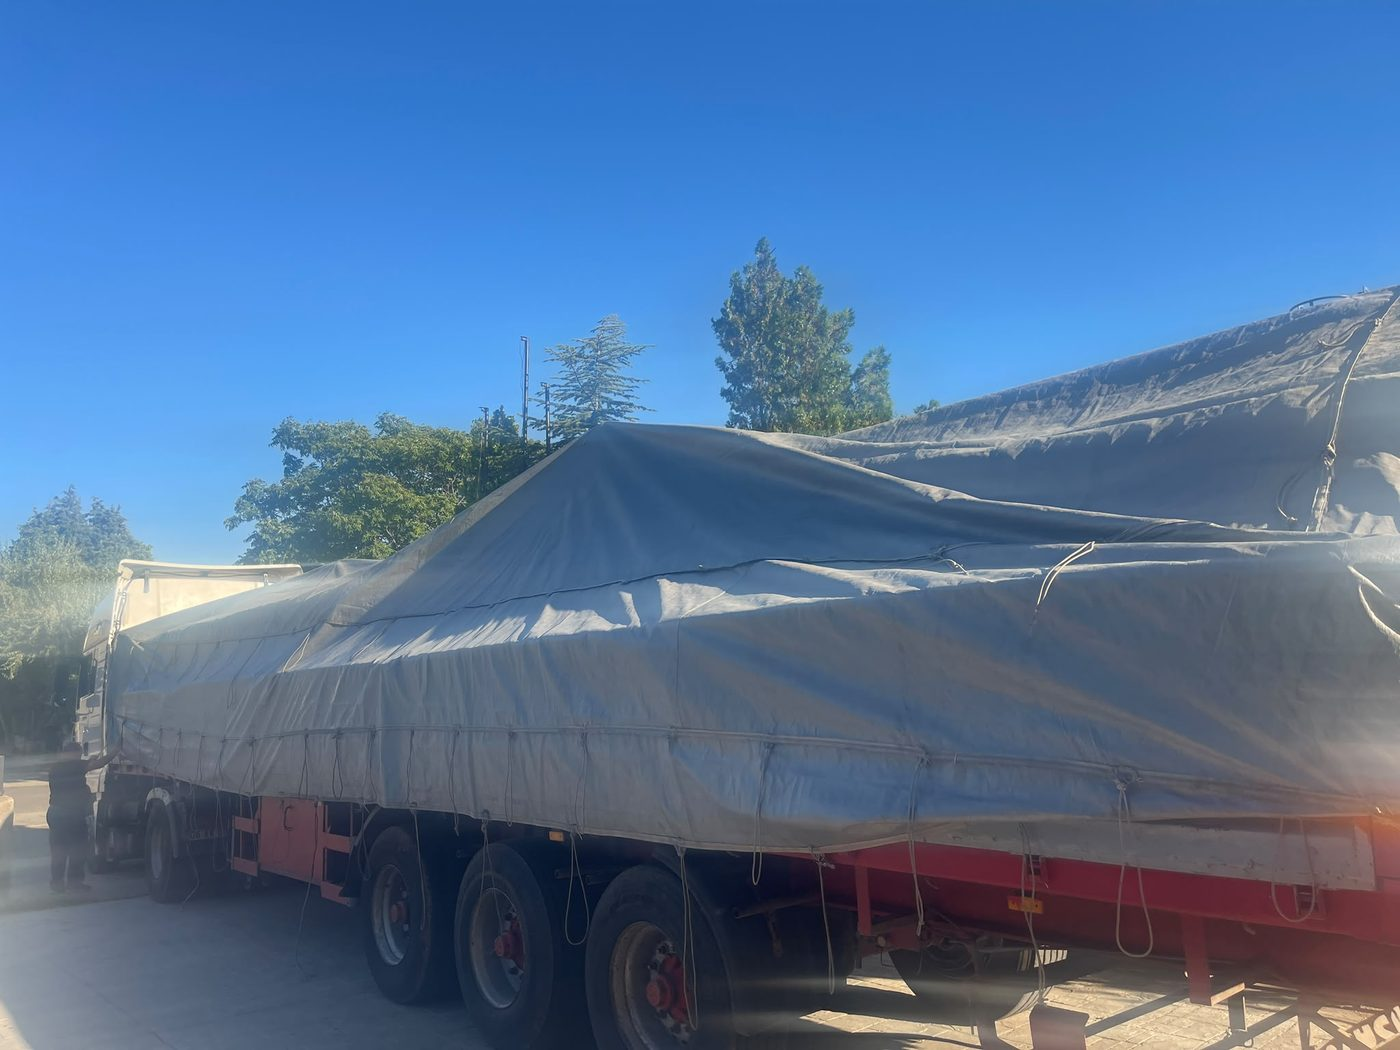
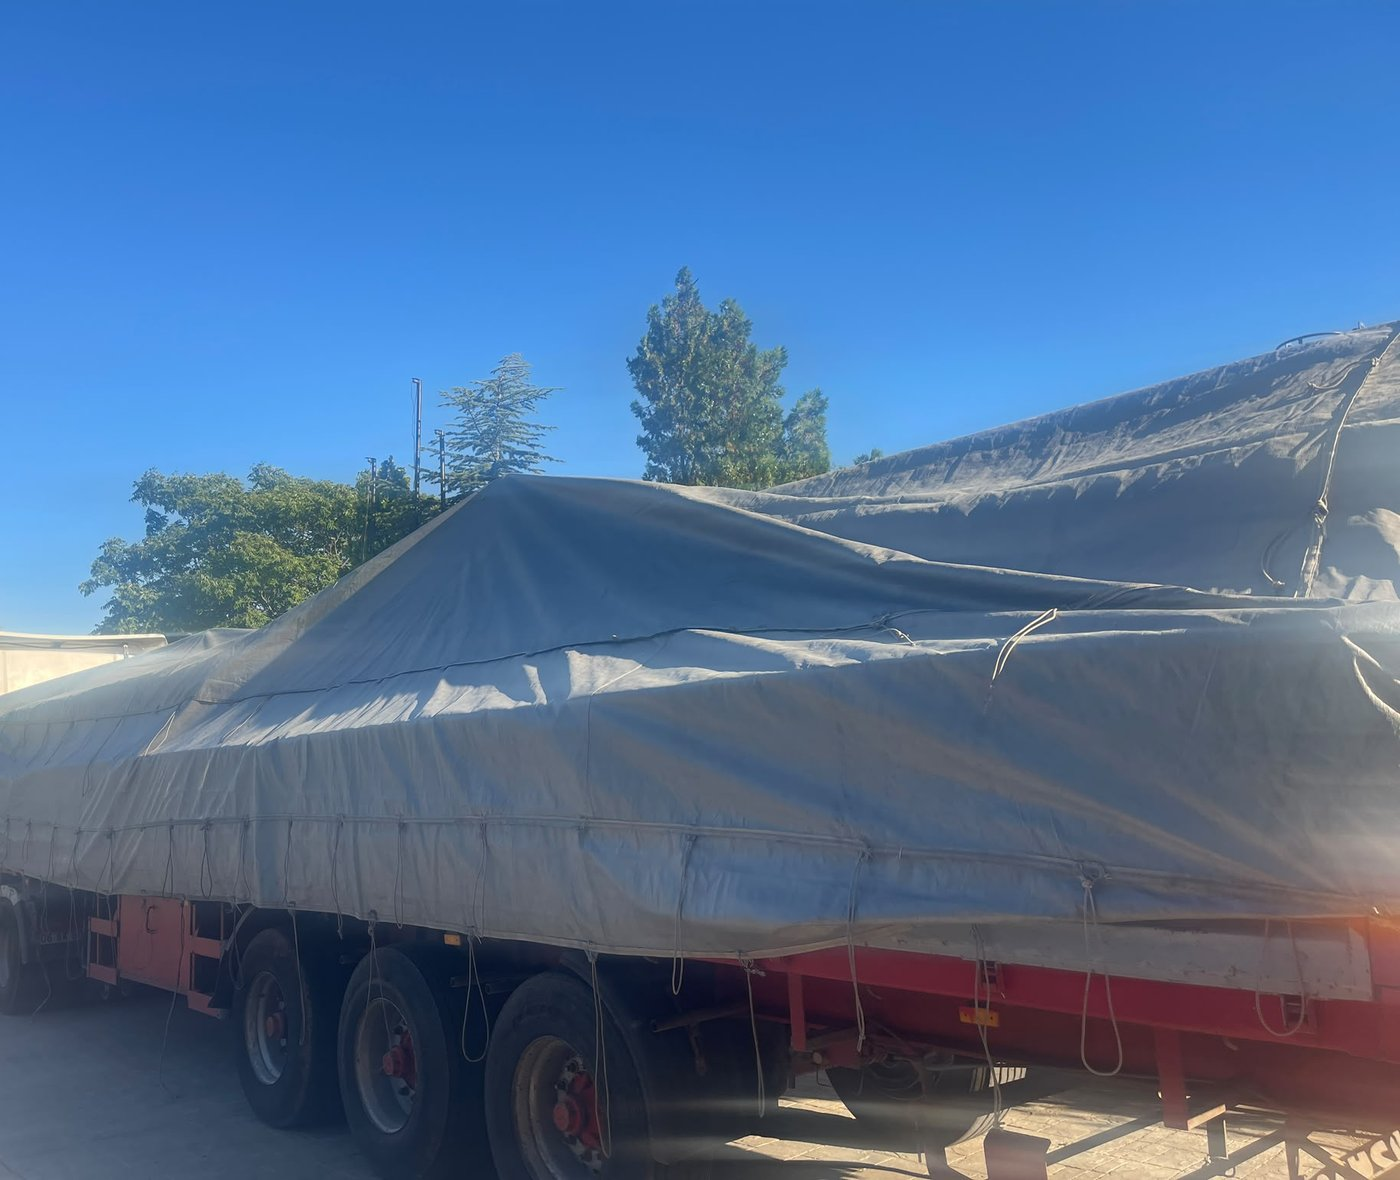
YETSAN 0726051: insanli 5 foto degistirildi, EKSIK soru dosyasi eklendi.

diff --git a/projects/0726051-YETSAN-KNV-90/EKSIK-SORULAR.md b/projects/0726051-YETSAN-KNV-90/EKSIK-SORULAR.md
@@ -1,0 +1,272 @@
+# 0726051-YETSAN KNV 90 7500 2B — Eksik veri soruları
+
+Kılavuzdaki 128 `[EKSİK]` işareti aşağıdaki 21 konuya iner. Her sorunun altındaki **Cevap:** satırını doldur; ben DATA dosyasını ve TR/DE bölümlerini buna göre güncellerim.
+
+Doldurma kuralları:
+- Değeri biliyorsan birimiyle yaz (ör. `7 500 mm`, `IP54`, `55 °C`).
+- O madde bu makinede yoksa `YOK` yaz (kılavuzda "bulunmaz" olarak yazılır).
+- Hâlâ bilinmiyorsa `BİLİNMİYOR` yaz ya da boş bırak (`[EKSİK]` kalır).
+- Çizim/PDF'ten gelecekse dosya adını yazman yeterli; değeri çizimden okurum.
+
+Sağdaki köşeli parantezler DATA anahtarını ve kılavuz bölümünü gösterir.
+
+---
+
+## 1. Kimlik ve etiket
+
+**S1.** Makinenin imalat / sevk tarihi nedir? `[PROJE] İmalat / sevk tarihi` — Bölüm 1.1, 1.3
+Cevap:
+
+**S2.** Tip (CE) etiketi makinenin tam olarak neresinde? (ör. "pano kapağı sağ üst", "konveyör giriş tarafı gövde") — Bölüm 1.3
+Cevap:
+
+---
+
+## 2. Güvenlik sınıflandırması
+
+**S3.** Emniyet fonksiyonlarının EN ISO 13849-1 kategorisi ve PL değeri nedir? (ör. `Cat. 3 / PL d`) `[GUVENLIK_CIT] Makine stop kategorisi` — Bölüm 2.1, 5.4
+Cevap:
+
+**S4.** Acil stop durdurma kategorisi (EN 60204-1) nedir? (`Stop Cat. 0` veya `Cat. 1`) — Bölüm 2.5
+Cevap:
+
+**S5.** Acil stop zinciri ile kapak switch zinciri aynı G9SB rölesine mi bağlı, yoksa iki ayrı röle mi var? `[GUVENLIK_CIT] Emniyet rölesi (acil stop zinciri)` — Bölüm 2.5, 5.4
+Cevap:
+
+---
+
+## 3. LOTO — enerji izolasyon noktaları
+
+**S6.** Basınçlı hava için kilitlenebilir kesme vanası nerede? (makine üzerinde AIR INLET regülatörünün yanında mı, tesisat hattında mı?) `[LOTO_ENERJI_KONTROLU] İzolasyon noktası — basınçlı hava` — Bölüm 2.4
+Cevap:
+
+**S7.** Makine üzerinde ayrı bir su kesme vanası var mı? Varsa nerede? `[LOTO_ENERJI_KONTROLU] Su / hidrolik izolasyon` — Bölüm 2.4
+Cevap:
+
+---
+
+## 4. Egzoz fanı
+
+**S8.** Egzoz fanının panelde anahtarı yok; hangi fonksiyonla birlikte devreye giriyor? (ör. "TANK 1 PUMP açılınca", "ana şalter ON olunca sürekli", "DRYING ile") — Bölüm 3.1, 3.4, 7.2
+Cevap:
+
+---
+
+## 5. İşlenebilir parça limitleri
+
+**S9.** Konveyöre konabilecek parçanın maksimum boyutu (L × W × H, mm) ve maksimum ağırlığı (kg) nedir? Ayrıca tel bant metre başına taşıma kapasitesi varsa yaz. `[AMACLANAN_KULLANIM] İşlenebilir ürün tipleri`, `[KAPASITE_PROSES] Ürün boyutu/ağırlığı max` — Bölüm 3.2, 8.1
+Cevap:
+
+**S10.** Kurutma hücresi geçiş açıklığı (W × H, mm) nedir? (parça yükseklik sınırı için) — Bölüm 3.2
+Cevap:
+
+---
+
+## 6. Boyut ve ağırlık
+
+**S11.** Makine dış ölçüleri: uzunluk L / genişlik W / yükseklik H (baca hariç ve baca dahil), mm. `[BOYUT_AGIRLIK]` — Bölüm 3.3.1
+Cevap:
+
+**S12.** Boş (kuru) ağırlık, kg. `[BOYUT_AGIRLIK] Boş ağırlık — kuru` — Bölüm 3.3.1
+Cevap:
+
+**S13.** Çalışma (tanklar dolu) ağırlığı, kg. Tank hacimleri biliniyorsa (TANK 1 / TANK 2 litre) onu da yaz. `[BOYUT_AGIRLIK] Çalışma ağırlığı — dolu` — Bölüm 3.3.1
+Cevap:
+
+**S14.** Yağ ayırıcı ünitesinin ölçüleri ve ağırlığı? — Bölüm 3.3.1, 4.1
+Cevap:
+
+---
+
+## 7. Döngü süresi
+
+**S15.** Konveyör nominal hızda (ör. 50 Hz) bir parça girişten çıkışa kaç saniyede/dakikada geçer? Veya konveyör hızı m/dk olarak nedir? (hat uzunluğu ile süreyi ben hesaplarım) `[KAPASITE_PROSES] Döngü süresi nominal` — Bölüm 3.3.2, 7.4, 8.1
+Cevap:
+
+---
+
+## 8. Elektrik
+
+**S16.** Güç faktörü (cos φ)? `[ELEKTRIK] Güç faktörü` — Bölüm 3.3.3
+Cevap:
+
+**S17.** Kısa devre akımı / ICC gereksinimi (kA)? (TMŞ CVS250F kesme kapasitesi 36 kA ise bunu doğrula) `[ELEKTRIK] Kısa devre akımı` — Bölüm 3.3.3
+Cevap:
+
+**S18.** Elektrik panosunun koruma sınıfı (IP)? `[KONTROLLER] Pano koruma sınıfı` — Bölüm 3.3.6, 3.4
+Cevap:
+
+**S19.** Motorların devir (rpm) ve marka/model bilgisi: konveyör redüktör motoru, yıkama pompası, durulama pompası, sıyırıcı, egzoz fanı, kurutma fanı 1–2, blower 1–4. `[MOTOR_SURUCU_LISTESI]` — Bölüm 3.3.4
+Cevap:
+
+---
+
+## 9. Medya bağlantıları
+
+**S20.** Basınçlı hava girişi bağlantı çapı ve konumu? (ör. `G 1/2", makine sağ yan, pano altı`) `[SIKIŞTIRILMIŞ_HAVA_SU] Basınçlı hava ve su bağlantı verileri` — Bölüm 3.3.5, 5.3, 6.5
+Cevap:
+
+**S21.** Su girişi bağlantı çapı ve konumu? — Bölüm 3.3.5, 5.3
+Cevap:
+
+**S22.** Tank tahliye (TAHLİYE) vanası çapı ve drain / atık su hattı çapı? `[SIKIŞTIRILMIŞ_HAVA_SU] Drain / atık su hattı çap` — Bölüm 3.3.5, 5.3, 10.1
+Cevap:
+
+**S23.** Egzoz bacası çıkış çapı (mm) ve önerilen kanal malzemesi? — Bölüm 3.3.5, 5.3
+Cevap:
+
+---
+
+## 10. Termostat set değerleri
+
+**S24.** Fabrika/önerilen sıcaklık set değerleri (°C): TANK 1 HEATER / TANK 2 HEATER / DRYING 1 HEATER / DRYING 2 HEATER. Ayrıca termostatın ayarlanabilir aralığı (ör. `0–99 °C`). `[KONTROL_FONKSIYONLARI] Reçete / program kayıt sayısı` — Bölüm 3.4, 6.3
+Cevap:
+
+**S25.** Kurutma hücresi hava sıcaklığı için üst sınır var mı? (su için +70 °C sınırı tanımlı) — Bölüm 6.3
+Cevap:
+
+---
+
+## 11. Layout ve kurulum alanı
+
+**S26.** Genel yerleşim (layout) çiziminin dosya adı ve revizyonu? `[LAYOUT] Genel yerleşim planı dosya adı`, `[DOKUMANLAR] Layout çizimi` — Bölüm 3.5, 13.1, 13.2
+Cevap:
+
+**S27.** Minimum etraf boşlukları (mm): ön (pano/operatör tarafı) / arka / giriş yanı / çıkış yanı. `[LAYOUT] Minimum etraf boşluğu` — Bölüm 3.5.2, 5.2
+Cevap:
+
+**S28.** Minimum tavan yüksekliği (baca bağlantısı dahil), mm. `[LAYOUT] Minimum tavan yüksekliği` — Bölüm 3.5.2
+Cevap:
+
+**S29.** Montaj alanı minimum boyutu (m × m)? `[MONTAJ_GENEL] Montaj alanı min boyut` — Bölüm 3.5.2, 5.1
+Cevap:
+
+**S30.** Zemin düzgünlük toleransı (mm/m) ve zemin taşıma kapasitesi gereksinimi (kg/m² veya "dolu ağırlık × 1,5")? `[MONTAJ_GENEL] Zemin düzgünlük toleransı / Zemin mukavemet` — Bölüm 3.5.2, 5.2
+Cevap:
+
+---
+
+## 12. Kaldırma ve sevkiyat
+
+**S31.** Montajlı taşıma ağırlığı (kg) ve demonte edilen en ağır parça (hangi parça, kg)? `[TASIMA]` — Bölüm 3.5.4, 4.1, 12.1
+Cevap:
+
+**S32.** Forklift çatal girişi var mı? Varsa nerede, çatal aralığı kaç mm? `[TASIMA] Forklift çatal girişi` — Bölüm 3.5.4, 4.1
+Cevap:
+
+**S33.** Kaldırma noktaları / travers çizimi var mı? Dosya adı? `[TASIMA] Kaldırma aparatı`, `[CIZIMLER] Kaldırma noktaları çizimi` — Bölüm 4.1, 13.2
+Cevap:
+
+**S34.** Vinç ile kaldırma öngörülüyor mu? Kaldırma mapaları var mı? `[LAYOUT] Vinç / forklift erişim noktaları` — Bölüm 3.5.4
+Cevap:
+
+**S35.** Ambalaj tipi (streç + branda / ahşap kasa / konteyner)? Taşıma sırasında sabitleme yöntemi (kayış, takoz)? `[TASIMA] Ambalaj tipi / Sabitleme` — Bölüm 4.1
+Cevap:
+
+**S36.** Nem/korozyon koruması (VCI, silikajel, yok)? Maksimum taşıma yüksekliği (kara/deniz, m)? `[TASIMA] Nem koruma / Taşıma yüksekliği` — Bölüm 4.1
+Cevap:
+
+---
+
+## 13. Depolama
+
+**S37.** Depolama pozisyonu (yatay, ayaklar üzerinde?), maksimum depolama süresi (ay) ve ortam şartları (nem, kapalı alan)? `[DEPOLAMA]` — Bölüm 4.2
+Cevap:
+
+---
+
+## 14. Montaj ve devreye alma
+
+**S38.** Tahmini montaj süresi (saat/gün) ve ekip sayısı? `[MONTAJ_GENEL]` — Bölüm 5.1
+Cevap:
+
+**S39.** Montaj adımlarında tork veya tolerans değeri var mı? (ör. ayak kontra somunu torku, baca flanş cıvataları) `[MONTAJ_ADIMLARI]` — Bölüm 5.1
+Cevap:
+
+**S40.** Teraziye alma / hizalama toleransı (mm/m)? `[KONUMLANDIRMA] Hizalama toleransı` — Bölüm 5.2.3
+Cevap:
+
+**S41.** Boş koşu (parçasız) test süresi (dk)? `[KURULUM_TEST] Boş koşu test süresi` — Bölüm 5.5
+Cevap:
+
+**S42.** Mekanik kurulum ve pnömatik dolum için standart checklist var mı? (varsa dosya adı; yoksa `YOK` — mevcut genel liste kalır) `[KURULUM_TEST]` — Bölüm 5.5
+Cevap:
+
+---
+
+## 15. Mekanik ayar
+
+**S43.** Konveyör zinciri / tel bant gerginlik değeri veya sarkma ölçüsü (mm)? Gerginlik ayarı nereden yapılır? `[MEKANIK_AYARLAR] Zincir / kayış gerginlik değeri` — Bölüm 6.1
+Cevap:
+
+**S44.** Operatörün yapabileceği başka mekanik ayar noktası var mı (nozul açısı, perde, kapak hizası)? `[MEKANIK_AYARLAR] Mekanik ayar noktaları listesi` — Bölüm 6.1
+Cevap:
+
+---
+
+## 16. Operasyon
+
+**S45.** Vardiya devir teslim listesi müşteri prosedürü mü, yoksa standart bir liste yazalım mı? Eklenecek madde varsa yaz. `[KRONOLOJI] Vardiya devir teslim maddeleri` — Bölüm 7.5
+Cevap:
+
+---
+
+## 17. Bakım
+
+**S46.** Konveyör redüktörü (XXC40/75) yağ tipi, dolum miktarı (L) ve değişim periyodu (saat/yıl)? `[BAKIM_YAGLAMA] Redüktör yağ değişim` — Bölüm 9.1.4
+Cevap:
+
+**S47.** Paslanmaz seviye bekçisi (10 00296) için önerilen stok adedi ve makinedeki adedi? `[PARCA_LISTESI]` — Bölüm 9.1.5, 13.3
+Cevap:
+
+**S48.** Tel bant 850 mm (10 17538) için önerilen stok (metre veya adet)? `[PARCA_LISTESI]` — Bölüm 9.1.5, 13.3
+Cevap:
+
+---
+
+## 18. Sensörler
+
+**S49.** Sızıntı tavasında (07 17687 montaj komplesi) sensör var mı? Varsa tipi/markası? `[SENSOR_ARIZA] Sızıntı tavası` — Bölüm 11.7
+Cevap:
+
+---
+
+## 19. Teslim dokümanları
+
+**S50.** Elektrik şeması dosya adı ve revizyonu? `[DOKUMANLAR] Elektrik şeması` — Bölüm 13.1, 14.1
+Cevap:
+
+**S51.** P&ID şeması teslim ediliyor mu? Dosya adı? `[DOKUMANLAR] P&ID` — Bölüm 13.1, 13.2
+Cevap:
+
+**S52.** Pnömatik şema var mı? (tek tüketici: yağ ayırıcı diyafram pompası) `[DOKUMANLAR] Pnömatik şema` — Bölüm 13.1, 13.2
+Cevap:
+
+**S53.** CE uygunluk beyanı / teknik dosya referansı? `[DOKUMANLAR] CE dosyası referansı` — Bölüm 13.1
+Cevap:
+
+**S54.** Kalibrasyon sertifikası (termostat, termokupl, manometre) teslim ediliyor mu? `[DOKUMANLAR] Kalibrasyon sertifikaları` — Bölüm 13.1
+Cevap:
+
+**S55.** Genel montaj çizimi ve zemin ankraj çizimi var mı? (ayarlanabilir ayak, ankraj öngörülmüyorsa `YOK`) `[CIZIMLER]` — Bölüm 13.1, 13.2
+Cevap:
+
+**S56.** Üçüncü taraf bileşen kılavuzları (Delta VFD, GEMO DTH2, Omron G9SB, VEGASWING 51, redüktör) teslim paketine ekleniyor mu? — Bölüm 13.1
+Cevap:
+
+**S57.** Garanti belgesi teslim paketinde mi; garanti süresi ve koşulları? — Bölüm 14.1 (Ek D), 1.3
+Cevap:
+
+---
+
+## 20. Kılavuz kapsamı
+
+**S58.** Bu makinede proje dışı opsiyon (ek modül, otomatik dolum, ışık perdesi vb.) var mı? `[GIRIS_GENEL] Kılavuz kapsamı` — Bölüm 1.1
+Cevap:
+
+---
+
+## 21. Kapak bilgileri
+
+**S59.** Kapakta revizyon numarası ve tarih ne olacak? `project.yaml → kapak.rev / kapak.tarih`
+Cevap:

diff --git a/projects/0726051-YETSAN-KNV-90/04-transport/01-transport/transporting.de.md b/projects/0726051-YETSAN-KNV-90/04-transport/01-transport/transporting.de.md
@@ -1,6 +1,6 @@
 # 4.1 Transport und Versand
 
-Die Maschine besteht aus einem **langen Hauptkörper**, der die Fördererlinie, die Tanks, die Trocknungseinheit und den Schaltschrank trägt, sowie der separat stehenden **Ölabscheidereinheit**. Da der Hauptkörper lang ist und die Gewichtsverteilung asymmetrisch ist (Tanks, Pumpen und Schaltschrank befinden sich auf einer Seite der Linie), dürfen Anheben und Transport nur durch einen zertifizierten Gabelstaplerfahrer und nur an den vom Hersteller festgelegten Anschlagpunkten erfolgen. Auf den Versandfotos ist die Maschine auf einem offenen Pritschenfahrzeug unter einer Schutzplane zu sehen, mit dem Gabelstapler verladen.
+Die Maschine besteht aus einem **langen Hauptkörper**, der die Fördererlinie, die Tanks, die Trocknungseinheit und den Schaltschrank trägt, sowie der separat stehenden **Ölabscheidereinheit**. Da der Hauptkörper lang ist und die Gewichtsverteilung asymmetrisch ist (Tanks, Pumpen und Schaltschrank befinden sich auf einer Seite der Linie), dürfen Anheben und Transport nur durch einen zertifizierten Gabelstaplerfahrer und nur an den vom Hersteller festgelegten Anschlagpunkten erfolgen. Auf den Versandfotos ist die Maschine auf einem offenen Pritschenfahrzeug unter Stretchfolie und Schutzplane zu sehen.
 
 Außenabmessungen und Gewicht sind bei der Planung des Aufstellorts und des Fahrzeugs zu berücksichtigen (**Siehe Kapitel 3.3.1**); diese Werte sind in den DATA nicht definiert und müssen dem Aufstellungsplan (Layout) bzw. der Hebezeichnung entnommen werden (**Siehe Kapitel 3.5.4**).
 

diff --git a/projects/0726051-YETSAN-KNV-90/04-transport/01-transport/transporting.tr.md b/projects/0726051-YETSAN-KNV-90/04-transport/01-transport/transporting.tr.md
@@ -1,6 +1,6 @@
 # 4.1 Taşıma ve nakliye
 
-Makine, konveyör hattı, tanklar, kurutma ünitesi ve elektrik panosunu taşıyan **uzun bir ana gövde** ile ayrı duran **yağ ayırıcı ünitesinden** oluşur. Ana gövde uzun ve ağırlık dağılımı asimetrik (tanklar, pompalar ve pano hattın bir tarafında) olduğundan kaldırma ve taşıma, yalnızca sertifikalı forklift operatörü tarafından ve üreticinin belirlediği kaldırma noktalarından yapılmalıdır. Sevkiyat fotoğraflarında makine, açık kasa araç üzerinde koruyucu örtü altında, forklift ile yüklenmiş olarak görülmektedir.
+Makine, konveyör hattı, tanklar, kurutma ünitesi ve elektrik panosunu taşıyan **uzun bir ana gövde** ile ayrı duran **yağ ayırıcı ünitesinden** oluşur. Ana gövde uzun ve ağırlık dağılımı asimetrik (tanklar, pompalar ve pano hattın bir tarafında) olduğundan kaldırma ve taşıma, yalnızca sertifikalı forklift operatörü tarafından ve üreticinin belirlediği kaldırma noktalarından yapılmalıdır. Sevkiyat fotoğraflarında makine, açık kasa araç üzerinde streç film ve koruyucu örtü altında görülmektedir.
 
 Dış boyutlar ve ağırlık kurulum alanı ve araç planlamasında dikkate alınmalıdır (**Bkz. Bölüm 3.3.1**); bu değerler DATA'da tanımlı değildir ve layout/kaldırma çiziminden alınmalıdır (**Bkz. Bölüm 3.5.4**).
 

diff --git a/projects/0726051-YETSAN-KNV-90/04-transport/transport.de.md b/projects/0726051-YETSAN-KNV-90/04-transport/transport.de.md
@@ -11,7 +11,7 @@ Die Maschine wird in zwei Hauptteilen versandt: dem Hauptkörper (Förderer, Tan
 
 Die Umgebungstemperatur bei Transport und Lagerung muss im Bereich von **+10 °C bis +30 °C** liegen; Feuchtigkeit und korrosive Stoffe dürfen nicht vorhanden sein. Beachten Sie während des Transports die Sicherheitsregeln aus **Kapitel 2**; bei Arbeiten, die einen Eingriff an der Maschine erfordern, erfolgt die Energietrennung gemäß **Kapitel 2.4**.
 
-![Versand — Maschine auf offenem Pritschenfahrzeug, Beladung mit Gabelstapler](../assets/4.1/sevkiyat-kamyon.jpg)
+![Versand — Maschine auf offenem Pritschenfahrzeug, mit Stretchfolie verpackt](../assets/4.1/sevkiyat-kamyon.jpg)
 
 ---
 

diff --git a/projects/0726051-YETSAN-KNV-90/04-transport/transport.tr.md b/projects/0726051-YETSAN-KNV-90/04-transport/transport.tr.md
@@ -11,7 +11,7 @@ Makine, ana gövde (konveyör, tanklar, hücreler, kurutma ünitesi, egzoz bacas
 
 Taşıma ve depolama ortam sıcaklığı **+10 °C ile +30 °C** aralığında olmalıdır; nem ve korozif maddeler bulunmamalıdır. Taşıma sırasında **Bölüm 2** güvenlik kurallarına uyun; makine üzerinde müdahale gerektiren işlerde enerji izolasyonu **Bölüm 2.4**'e göre yapılır.
 
-![Sevkiyat — makine açık kasa araç üzerinde, forklift ile yükleme](../assets/4.1/sevkiyat-kamyon.jpg)
+![Sevkiyat — makine açık kasa araç üzerinde, streç film ile ambalajlı](../assets/4.1/sevkiyat-kamyon.jpg)
 
 ---
 
